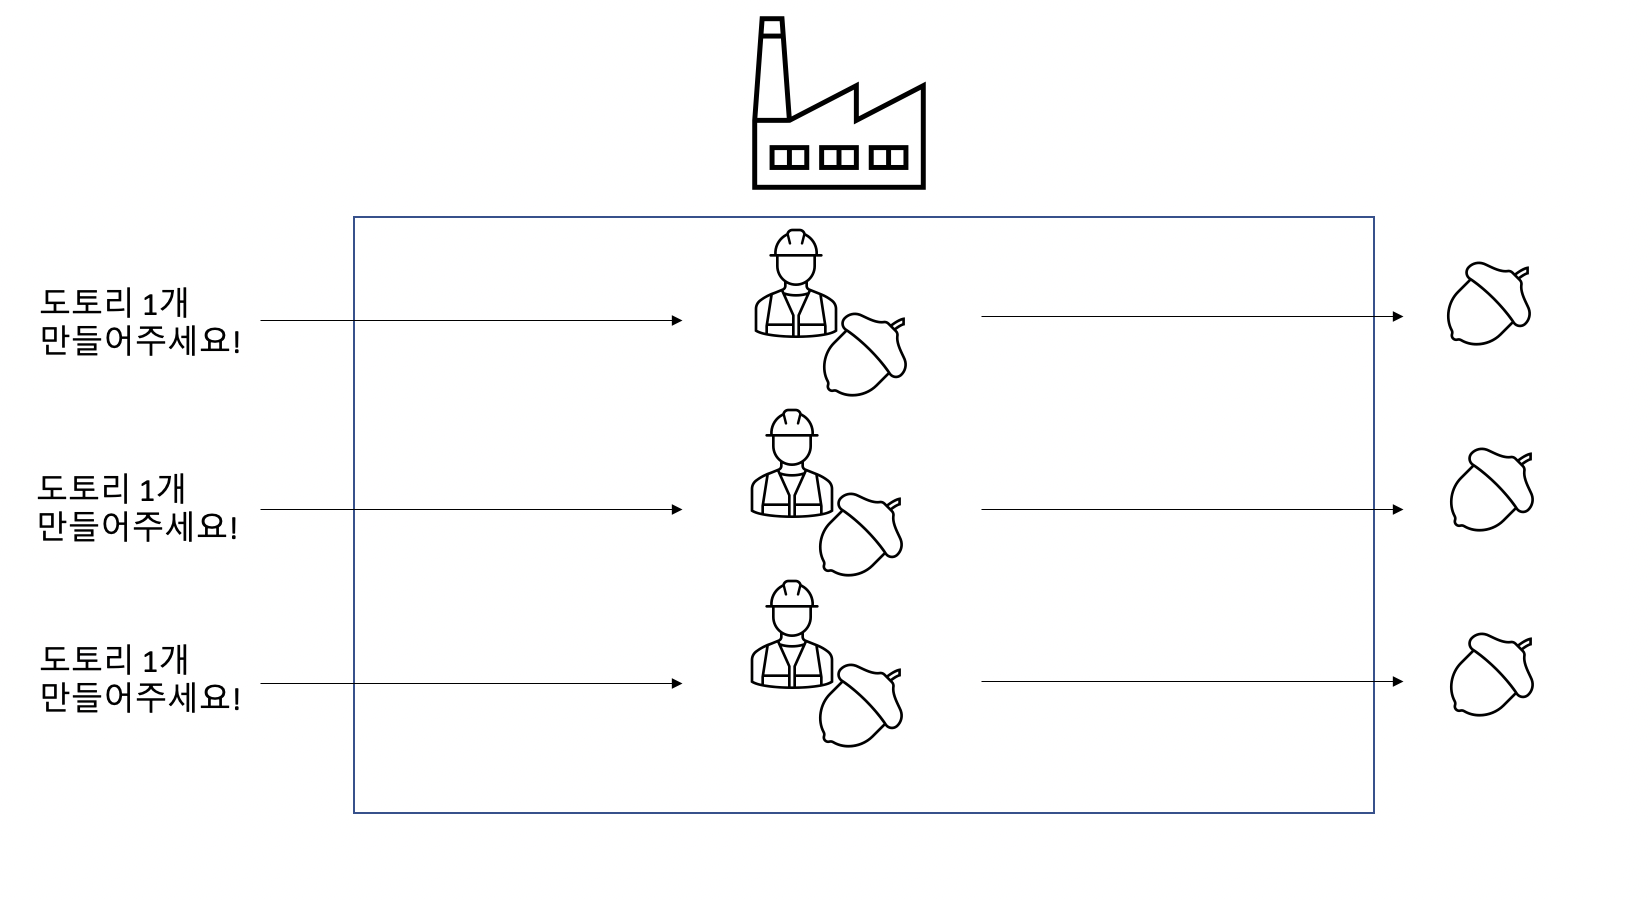
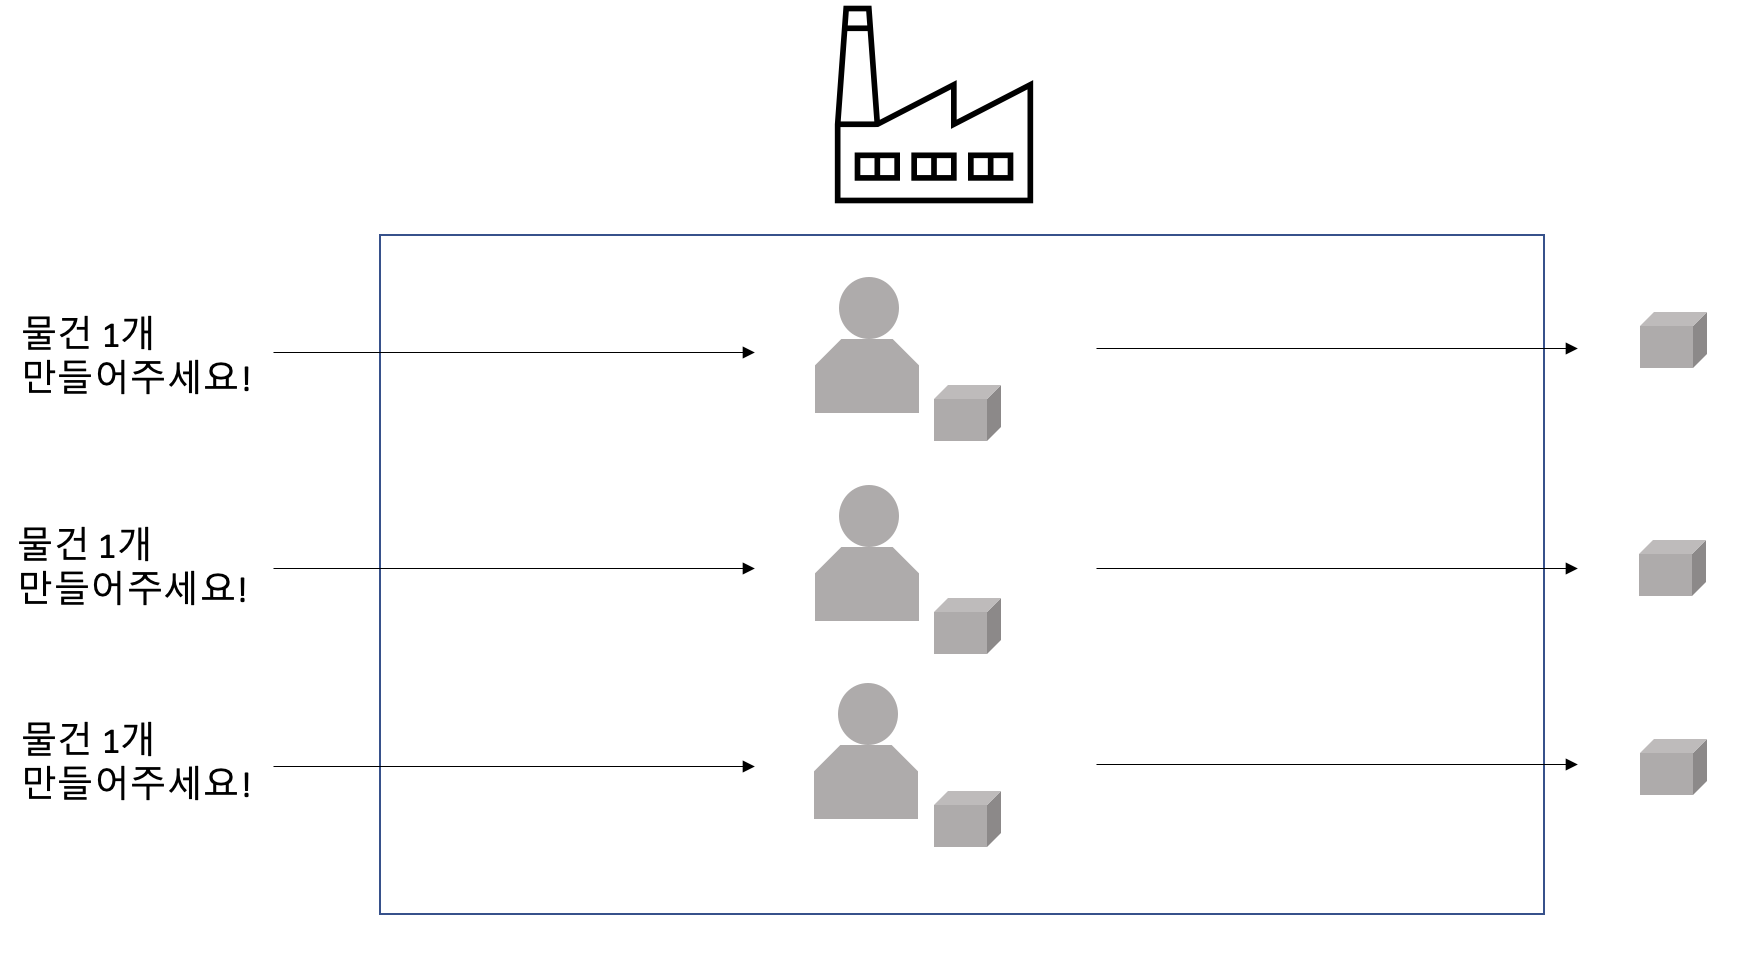
reactor - 1 complete

diff --git a/_posts/2021-05-02-2215.md b/_posts/2021-05-02-2215.md
@@ -1,11 +1,13 @@
 ---
-title:  "[Reactive Programing] Reactive Streams와 Project reactor"
+title:  "[Reactive Programing] Reactive와 Spring Webflux - 1"
 date:   2021-05-02 22:15:00 +0900
 categories: Reactive
-tags : [Reactive,Reactive Streams,Kotlin]
+tags : [Reactive,Spring Webflux]
 ---
 
 
+
+어렵다 어려워. Reactive Programing은 너무 어렵다.
 
 오랜만에 블로그에 글을 쓴다.
 
@@ -25,13 +27,13 @@ tags : [Reactive,Reactive Streams,Kotlin]
 
 
 
-# Reactive Streams
+# Reactive?
 
 전통적인(그리고 현재 대부분의) Spring 애플리케이션은 차단식 동기 프로그래밍으로 구현되어 있으며, 그 근본에는 절차지향(명령형) 프로그래밍이 있다.
 
 말그대로 코드 한줄한줄 따라 내려가면서 명령어가 수행되는 구조인것이다.
 
-이러한 절차지향 프로그래밍 기법은 "차단"을 유발하며, 이 차단은 리소스의 낭비를 유발한다.
+이러한 절차지향 프로그래밍 기법은 일반적으로 "차단(Blocking)"을 유발하며, 이 차단은 리소스의 낭비를 유발한다.
 
 웹 어플리케이션의 Requests(threads)와 Response를 공장 노동자와 생산되는 물건에 비유해보겠다.
 
@@ -39,18 +41,57 @@ tags : [Reactive,Reactive Streams,Kotlin]
 
 ### 노동자와 결과물
 
-어떤 도토리 공장에서는 전화를 통해 도토리의 생산 주문을 실시간으로 받고, 주문을 받는 즉시 공장 노동자는 생산 작업에 착수하며,
+어떤 공장에서는 전화를 통해 물건의 생산 주문을 실시간으로 받고, 주문을 받는 즉시 공장 노동자는 생산 작업에 착수하며,
 
-생산 작업이 완료되면 도토리를 주문자에게 보낸다. 여러개의 도토리 생산 주문을 받으면 여러명의 노동자가 동시에 생산 작업에 착수한다.
+생산 작업이 완료되면 물건을 주문자에게 보낸다. 여러개의 물건 생산 주문을 받으면 여러명의 노동자가 동시에 생산 작업에 착수한다.
 
 그림으로 보면 다음과 같다.
 
-![](../assets/img/202105022243.png)
+![](/assets/img/202105022243.png)
 
 이를 Spring Web Application에 비유하면, 노동자는 Thread로 볼 수 있고, 도토리는 Response로 볼 수 있다. 아래의 그림과 같이 말이다.
 
-![](../assets/img/202105041814.png)
+![](/assets/img/202105041814.png)
 
-http Request가 오게되면, 서블릿 컨테이너(Tomcat 등)는 Thread Excutor를 통해 각 요청을 Thread로 처리한다. 이 때, 요청마다 정보를 저장하는 공간은 ThreadLocal이라는 객체를 통해 처리한다.
+http Request가 오게되면, 서블릿 컨테이너(Tomcat 등)는 Thread Excutor를 통해 각 요청을 Thread로 처리한다. 이 때, 요청마다 별도로 정보를 저장하는 공간은 ThreadLocal이라는 객체를 통해 처리한다.
 
-보통의 웹 어플리케이션의 경우 JDBC를 이용하여 데이터베이스에서 정보를 얻어와 요청에 대한 처리를 진행하는 경우가 많다. 이 때 JDBC를 통해 DB에 데이터를 요청하게 되면 Thread는 DB가 데이터를 돌려주기 전까지 아무일도 하지 못하고 기다려야 하는데, 이를 Blocking 상태에 있다고 부른다.
+만약 노동자가 물건 생산 중 물건생산에 필요한 부품이 부족하여, 외부에서 부품을 사와야 하는 상황이 생긴다면? 당연히 노동자는 부품을 구할때까지 만들던 물건을 완성할 수 없고, 아무일도 하지 못할것이다.
+
+보통의 웹 어플리케이션의 경우 JDBC를 이용하여 데이터베이스에서 정보를 얻어와 요청에 대한 처리를 진행하는 경우가 많다. 이 때 JDBC를 통해 DB에 데이터를 요청하게 되면 Thread는 DB가 데이터를 돌려주기 전까지 아무일도 하지 못하고 기다려야 하는데, 이를 Blocking 상태에 있다고 부른다. 
+
+![](/assets/img/202105051629.png)
+
+### Reactive Programing
+
+이처럼 Thread가 Blocking 상태에 빠져 아무것도 하지못하면, 컴퓨팅 자원이 낭비되는 셈이다.(노동자가 쉬는것처럼)
+
+이를 방지할수 있는 방법중 하나가 바로 **Reactive Programing**이며, 반응형 프로그래밍이라고도 불리는데, Spring에서는 **Spring Webflux**가 이 Reactive Programing의 개념을 이용하여 개발되었다. ~~(Non-blocking과 Reactive-streams, Project Reactor에 대해서도 더 다루면 좋겠지만.. 여기서 다 다루기엔 양이 너무 많아서 PASS)~~
+
+위에서 봤던 공장의 상황을 Reactive Programing 방식으로 다시 바꿔보면 아래와 같다.
+
+![](/assets/img/202105051709.png)
+
+주문이 들어오면, 각자 다른 역할을 맡은 노동자들이 컨베이어 벨트 위에 서고, 물건은 컨베이어 벨트 위를 지나면서 점점 완성되어 가는것이다.
+
+이렇게 되면 노동자들은 쉬지 않고 자신의 일을 하는데에만 집중할 수 있으며, 여기서는 **컨베이어 벨트가 Thread**로, **노동자는** Thread가 아닌 **Operator**로 치환하여 생각할 수 있다. 여기서 Operator는 Spring Webflux에서 제공하는 메소드(함수)들로, 데이터를 가공하기 위해 쓰이는 함수들이다.(ex. flatMap, map 등)
+
+### 장점
+
+이렇게 Spring Webflux를 이용하여 Reactive하게 시스템을 구성해 놓게 되면, 설령 DB와 같은 외부 IO접근을 통하더라도 Thread(컨베이어벨트)는 멈추지 않고 제 할일을 할 수 있다.(물론 JDBC는 blocking 방식의 Connector이기 때문에, 대신 R2DBC라는 Connector를 사용해야한다.)
+
+결과적으로 상황에 따라서 기존 시스템보다 작은양의 컴퓨팅 자원으로도 비슷하거나 그 이상의 성능을 낼 수 있으며, 이는 거시적으로 볼 때 에너지 절약과도 이어진다. 이러한 점으로 볼 때 개인적인 생각으로는 미래에는 필수적으로 가져가야한 아키텍쳐중 하나가 아닐까 생각한다.
+
+### 단점
+
+물론 장점만 있는것은 아닌데, 이렇게 선언적으로 프로그래밍을 하게 되면 무엇보다 데이터의 흐름을 직접 추적하기 어렵고, 이는 디버깅이 어려워지는 효과를 낳는다. 게다가 이 선언적 프로그래밍은 명령지향 프로그래밍보다 **러닝커브가 높다**. 협업이 필수인 개발자의 세계에서는 이 러닝커브가 큰 걸림돌이 될 수 있을것 같다.
+
+
+
+### 마치며
+
+사실 코드적인 부분들이 이해가 안가서 블로깅을 하려고 의도했는데.. 간단히 정리하려던 개념 부분이 생각보다 복잡하게 되었다...이것도 간략화 한거지만 ㅠㅠ
+
+다음화부터는 본격적으로 코드를 곁들여가면서 기록을 시작해봐야겠다.
+
+
+
